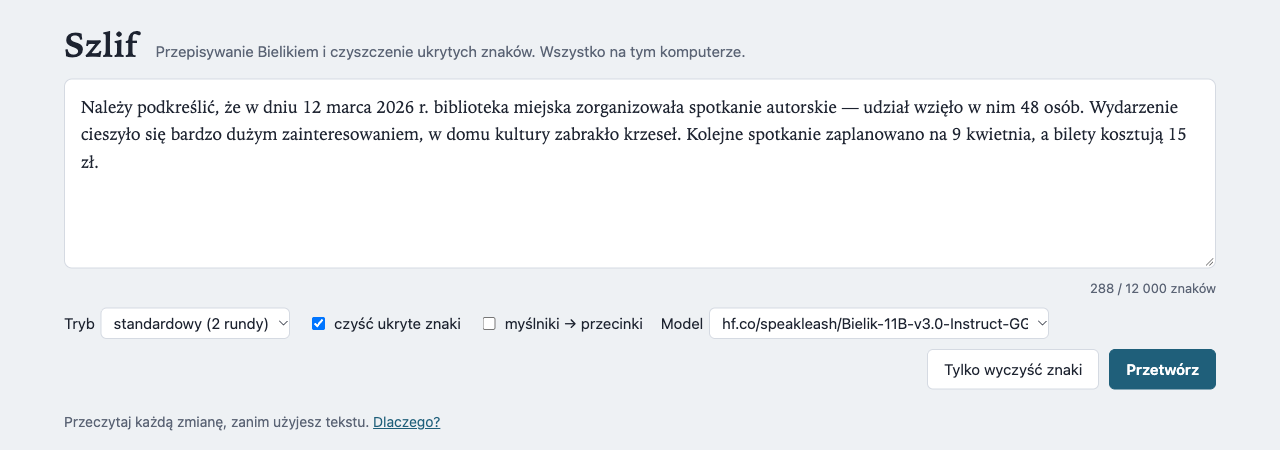
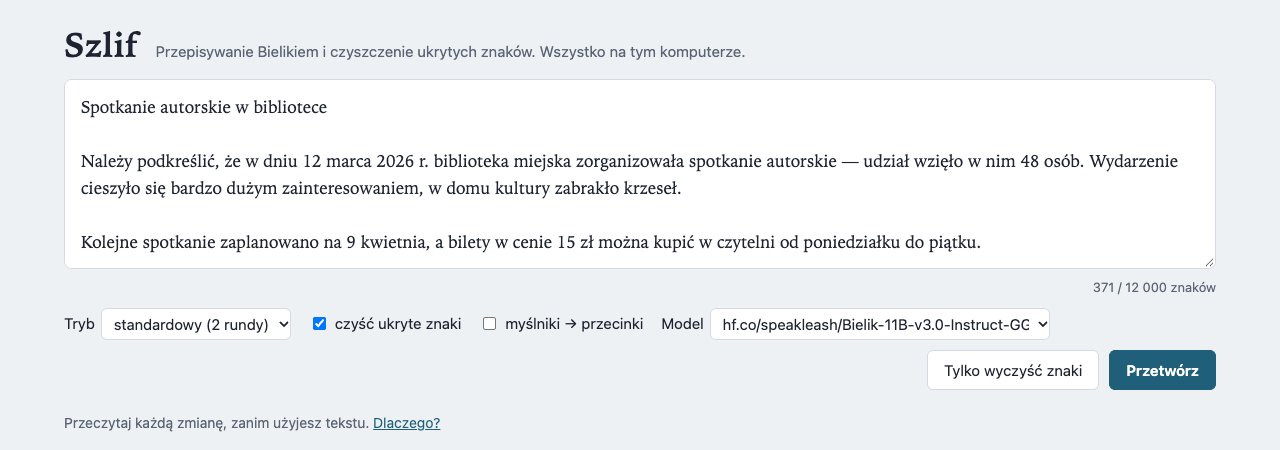
docs: screenshots of the final page, including the meaning check

diff --git a/README.md b/README.md
@@ -112,6 +112,10 @@ Po przetworzeniu kliknij **Sprawdź Bielikiem**. Model wybrany na liście **Mode
 - **Lepiej sprawdza inny model** niż ten, który przepisywał. Wybierz go na liście **Model** przed kliknięciem. Jeśli masz tylko Bielika, drugą parą oczu może być model w chmurze przez „Kopiuj do weryfikacji”.
 - Odpowiedź to lista miejsc do przeczytania, a nie werdykt. Gdy model urwie odpowiedź na limicie długości, strona to napisze.
 
+![Panel „Sprawdzenie sensu” nad kolumnami Przed i Po](docs/zrzuty/3-sprawdzenie.png)
+
+Ten zrzut to prawdziwy przebieg i dobry przykład, dlaczego czytasz sam. Bielik uznał oba akapity za „BEZ ZMIAN”, choć w akapicie 2 dopisał od siebie „dla wszystkich chętnych” i zmienił „bardzo duże zainteresowanie” na zdanie przyczynowe („tak duże, że”). Strażnik też tego nie zgłosił, bo dopisek jest krótki i nie zawiera liczb.
+
 ### Na stronie: „Kopiuj do weryfikacji”
 
 Po przetworzeniu kliknij **Kopiuj do weryfikacji**. W schowku jest prompt z ponumerowanymi parami akapitów PRZED i PO oraz uwagami strażnika. Gdzie go wkleić:
